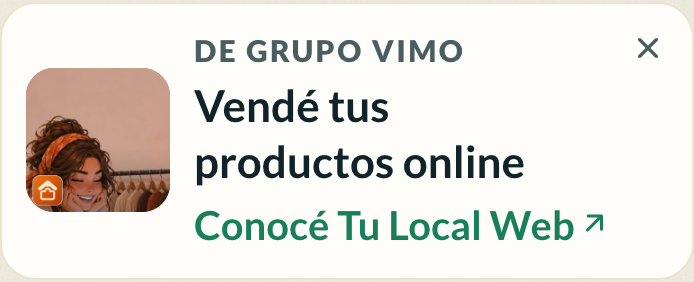
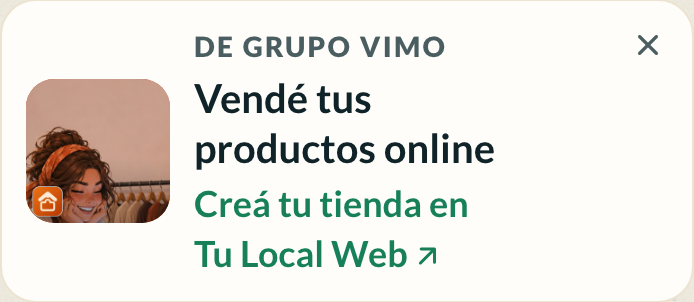
sugerencia: el CTA dice lo que pasa, «Creá tu tienda en Tu Local Web»
«Conocé Tu Local Web» llevaba directo al registro de TLW (/empezar guarda el
utm y redirige a crear cuenta). El destino sigue siendo el del plan; cambia
el texto, con la marca en espacios duros para que no se corte en ninguna
plataforma. En la web, si el CTA se parte (320 px o texto grande), la flecha
baja pegada a la última palabra. Lámina y capturas regeneradas; un test
cuida que los textos del catálogo no prometan «gratis» y no corten marcas.

Claude-Session: https://claude.ai/code/session_019W2t1BbE2dVYidNozKPcir

diff --git a/docs/laminas/sugerencia.html b/docs/laminas/sugerencia.html
@@ -81,7 +81,7 @@
 				<div class="sug">
 					<div class="cuerpo">
 						<div class="foto"><img src="../../apps/web/src/lib/sugerencias/tulocalweb-mini.jpg" alt="" /></div>
-						<div class="tx"><span class="sello">De Grupo Vimo</span><span class="titulo">Vendé tus productos online</span><span class="cta">Conocé Tu Local Web<span class="ico">arrow_outward</span></span></div>
+						<div class="tx"><span class="sello">De Grupo Vimo</span><span class="titulo">Vendé tus productos online</span><span class="cta">Creá tu tienda en Tu&nbsp;Local&nbsp;Web<span class="ico">arrow_outward</span></span></div>
 					</div>
 					<div class="cruz"><span class="ico">close</span></div>
 				</div>
@@ -96,7 +96,7 @@
 				<div class="sug">
 					<div class="cuerpo">
 						<div class="foto"><img src="../../apps/web/src/lib/sugerencias/tulocalweb-mini.jpg" alt="" /></div>
-						<div class="tx"><span class="sello">De Grupo Vimo</span><span class="titulo">Vendé tus productos online</span><span class="cta">Conocé Tu Local Web<span class="ico">arrow_outward</span></span></div>
+						<div class="tx"><span class="sello">De Grupo Vimo</span><span class="titulo">Vendé tus productos online</span><span class="cta">Creá tu tienda en Tu&nbsp;Local&nbsp;Web<span class="ico">arrow_outward</span></span></div>
 					</div>
 					<div class="cruz"><span class="ico">close</span></div>
 				</div>
@@ -109,7 +109,7 @@
 				<div class="sug">
 					<div class="cuerpo">
 						<div class="foto"><img src="../../apps/web/src/lib/sugerencias/tulocalweb-mini.jpg" alt="" /></div>
-						<div class="tx"><span class="sello">De Grupo Vimo</span><span class="titulo">Vendé tus productos online</span><span class="cta">Conocé Tu Local Web<span class="ico">arrow_outward</span></span></div>
+						<div class="tx"><span class="sello">De Grupo Vimo</span><span class="titulo">Vendé tus productos online</span><span class="cta">Creá tu tienda en Tu&nbsp;Local&nbsp;Web<span class="ico">arrow_outward</span></span></div>
 					</div>
 					<div class="cruz"><span class="ico">close</span></div>
 					<div class="medida"></div>
@@ -144,7 +144,7 @@
 				<div class="sug">
 					<div class="cuerpo">
 						<div class="foto"><img src="../../apps/web/src/lib/sugerencias/tulocalweb-banner.jpg" alt="" style="object-position:50% 50%" /></div>
-						<div class="tx"><span class="sello">De Grupo Vimo</span><span class="titulo">Vendé tus productos online</span><span class="cta">Conocé Tu Local Web<span class="ico">arrow_outward</span></span></div>
+						<div class="tx"><span class="sello">De Grupo Vimo</span><span class="titulo">Vendé tus productos online</span><span class="cta">Creá tu tienda en Tu&nbsp;Local&nbsp;Web<span class="ico">arrow_outward</span></span></div>
 					</div>
 					<div class="cruz"><span class="ico">close</span></div>
 				</div>

diff --git a/apps/web/src/lib/panel/TarjetaSugerencia.svelte b/apps/web/src/lib/panel/TarjetaSugerencia.svelte
@@ -21,6 +21,13 @@
 	// Sin palabra sola en el último renglón (con texto grande puede partirse).
 	const pegar = (s: string) => s.replace(/ (\S+)$/, ' $1');
 
+	// El CTA: si se parte, la flecha baja pegada a la última palabra (y la marca, que viene con
+	// espacios duros de la API, no se corta).
+	const cta = $derived.by(() => {
+		const i = sugerencia.cta.lastIndexOf(' ');
+		return i < 0 ? { inicio: '', fin: sugerencia.cta } : { inicio: sugerencia.cta.slice(0, i + 1), fin: sugerencia.cta.slice(i + 1) };
+	});
+
 	onMount(() => {
 		// Si la imagen falló antes de que la página se hidratara, onerror no llega.
 		if (img?.complete && img.naturalWidth === 0) fallo = true;
@@ -48,7 +55,7 @@
 			<span class="textos">
 				<span class="sello">{sugerencia.sello}</span>
 				<b class="titulo">{pegar(sugerencia.titulo)}</b>
-				<span class="cta">{pegar(sugerencia.cta)}<Icono nombre="arrow_outward" tam={16} /></span>
+				<span class="cta">{cta.inicio}<span class="fin">{cta.fin}<Icono nombre="arrow_outward" tam={16} /></span></span>
 			</span>
 		</a>
 		<button
@@ -127,12 +134,19 @@
 		text-wrap: balance;
 	}
 	.cta {
-		display: inline-flex;
-		align-items: center;
-		gap: 2px;
 		font-size: 14px;
+		line-height: 1.35;
 		font-weight: 700;
 		color: var(--tl-menta-texto);
+	}
+	.fin {
+		white-space: nowrap;
+	}
+	/* inline-block: el subrayado del hover no pasa por la flecha. */
+	.fin :global(.icono) {
+		display: inline-block;
+		margin-left: 2px;
+		vertical-align: -3px;
 	}
 	.cuerpo:hover .cta {
 		text-decoration: underline;

diff --git a/apps/api/internal/dominio/sugerencias/reglas_test.go b/apps/api/internal/dominio/sugerencias/reglas_test.go
@@ -3,6 +3,7 @@ package sugerencias
 import (
 	"net/url"
 	"slices"
+	"strings"
 	"testing"
 	"time"
 
@@ -127,6 +128,26 @@ func TestListaBlancaRechaza(t *testing.T) {
 		s.URL = u
 		if destinoValido(s) {
 			t.Errorf("%s: aceptó %s", nombre, u)
+		}
+	}
+}
+
+// El CTA dice lo que pasa al tocar (el destino es el alta de la otra app), sin prometer «gratis», y
+// las marcas van con espacios duros para que ningún renglón las corte.
+func TestTextosDelCatalogo(t *testing.T) {
+	for _, s := range Catalogo {
+		for _, x := range []string{s.Titulo, s.CTA} {
+			if strings.Contains(strings.ToLower(x), "gratis") {
+				t.Errorf("%s promete «gratis»: %q", s.ID, x)
+			}
+			for _, marca := range []string{"Tu Local Web", "Tengo Libre"} {
+				if strings.Contains(x, marca) {
+					t.Errorf("%s: %q tiene que ir con espacios duros", s.ID, marca)
+				}
+			}
+		}
+		if strings.HasSuffix(strings.Split(s.URL, "?")[0], "/empezar") && !strings.HasPrefix(s.CTA, "Creá") {
+			t.Errorf("%s lleva al alta pero el CTA no lo dice: %q", s.ID, s.CTA)
 		}
 	}
 }

diff --git a/apps/api/internal/dominio/sugerencias/catalogo.go b/apps/api/internal/dominio/sugerencias/catalogo.go
@@ -41,14 +41,16 @@ type Sugerencia struct {
 }
 
 // Catalogo: la única fuente de los textos. Sólo se nombra lo que la app sugerida ya hace, sin plazos
-// de prueba (no se pueden garantizar desde acá).
+// de prueba (no se pueden garantizar desde acá). El CTA dice lo que pasa al tocar: el destino es el
+// alta de la otra app (/empezar guarda el origen y lleva al registro). Los nombres de marca van con
+// espacios duros (U+00A0) para que ninguna plataforma los corte al partir el renglón.
 var Catalogo = []Sugerencia{
 	{
 		ID:     "tl-tlw",
 		Marca:  "tulocalweb",
 		Sello:  Sello,
 		Titulo: "Vendé tus productos online",
-		CTA:    "Conocé Tu Local Web",
+		CTA:    "Creá tu tienda en Tu\u00a0Local\u00a0Web",
 		URL:    "https://tulocalweb.com.ar/empezar?utm_source=tengolibre&utm_medium=sugerencia&utm_content=tl-tlw",
 		Imagen: "/sugerencias/tulocalweb-mini.jpg",
 		Banner: "/sugerencias/tulocalweb-banner.jpg",
